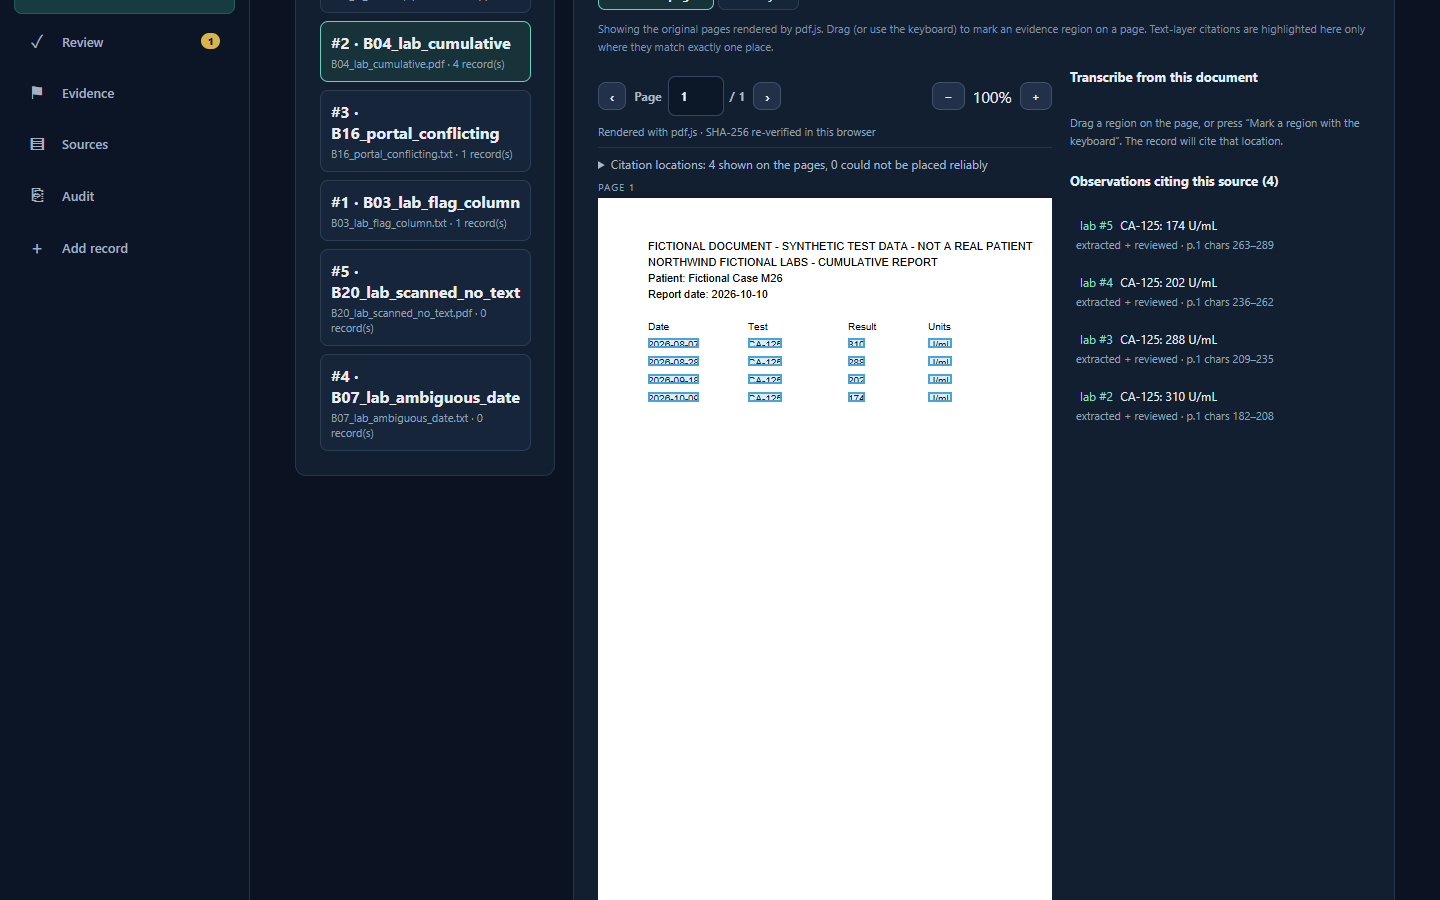
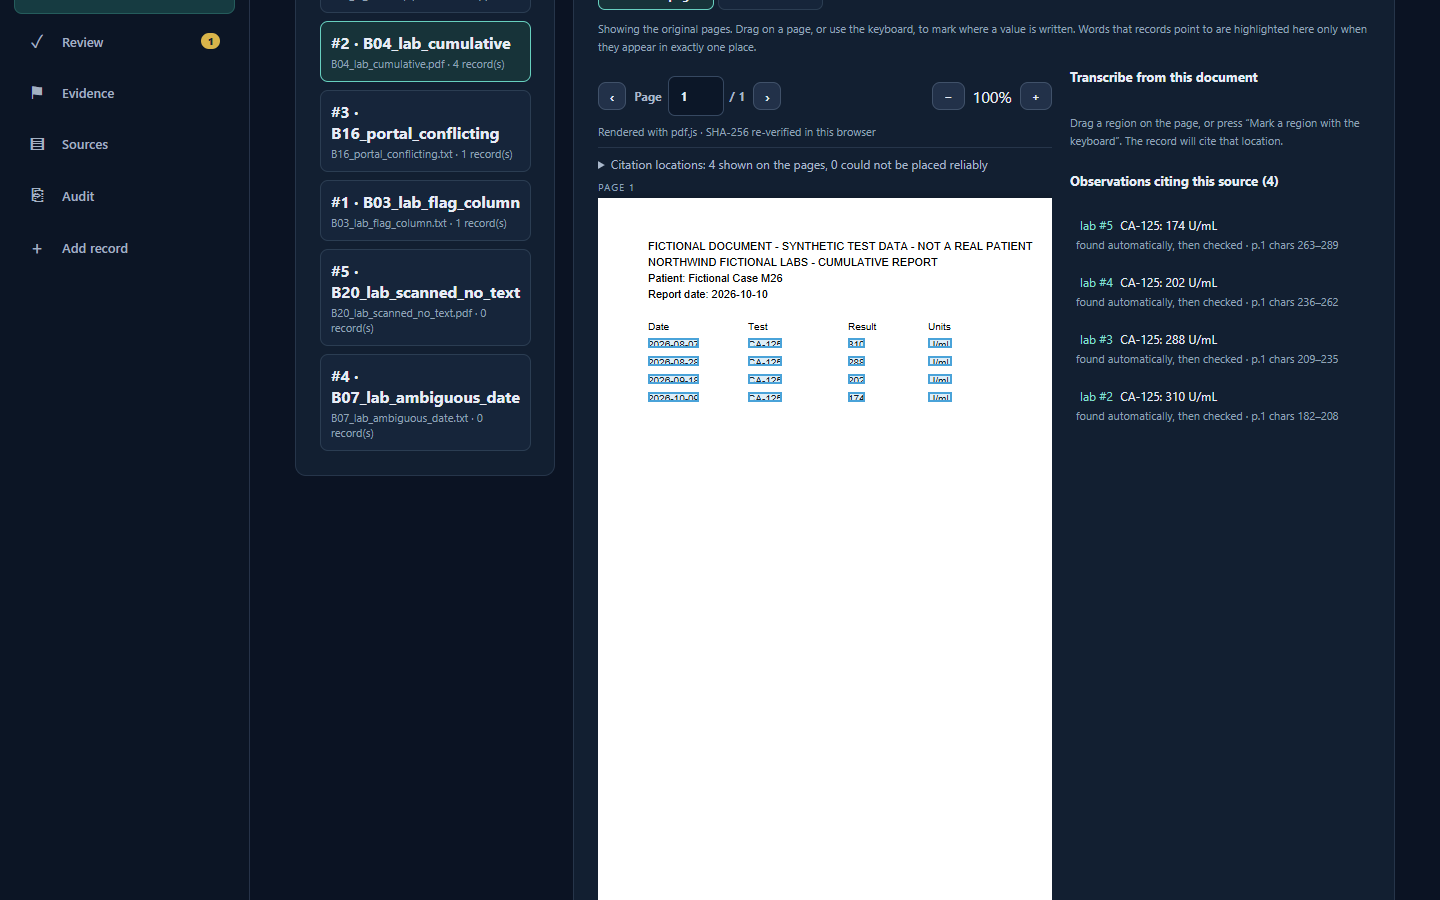
docs: document M3.0 foundations and remove local paths
Update README, architecture, security and roadmap for M3.0 (CI,
inventory, threat model, proposed architecture, regression suite, fixed
defects, M3.1/M3.2 milestones), make the tracked launch configuration
use repository-relative paths instead of a local user directory, and
bump the version to 0.3.0.

diff --git a/OncoScope_MVP/frontend/src/App.tsx b/OncoScope_MVP/frontend/src/App.tsx
@@ -143,7 +143,7 @@ export default function App() {
       <div className="brand"><div className="brand-mark">◎</div><div><strong>ONCOSCOPE</strong><span>LOCAL RESEARCH WORKSPACE</span></div></div>
       <p className="nav-label">WORKSPACE</p>
       <nav aria-label="Main navigation">{views.map((v, i) => <button className={`nav-item ${view === v ? 'active' : ''}`} aria-current={view === v ? 'page' : undefined} key={v} onClick={() => { setView(v); setAnchorDraft(null); }}><span className="nav-icon" aria-hidden="true">{icons[i]}</span>{v}{v === 'Review' && pendingReviews > 0 && <span className="nav-count" aria-hidden="true">{pendingReviews}</span>}</button>)}</nav>
-      <div className="sidebar-footer"><span className="local-dot" /> Local-only prototype<p>Phase 1 · M2.6 · v0.2.6<br />No automated interpretation</p></div>
+      <div className="sidebar-footer"><span className="local-dot" /> Local-only prototype<p>Phase 1 · M3.0 · v0.3.0<br />No automated interpretation</p></div>
     </aside>
     <main className="main">
       <header className="topbar"><div><div className="eyebrow">CLINICAL RECORDS / {view.toUpperCase()}</div><h1>{view === 'Overview' ? 'Patient overview' : view === 'History' ? 'Case history' : view}</h1></div>
@@ -213,7 +213,7 @@ export default function App() {
                 {(['sources', 'events', 'labs', 'treatments', 'studies', 'measurements', 'audit_log'] as const).map(e => <a key={e} className="export-link" href={`${exportBase}/export/${e}.csv`}>{e}.csv</a>)}</div>
               <details className="new-case"><summary>Create another fictional case</summary><CreateCase onCreated={id => { setPatientId(id); reload(); }} /></details></section></>}
         </>}
-        <footer className="footer">OncoScope 0.2.6 · Local-first prototype · Not for clinical decisions · Verify every observation against original documentation</footer>
+        <footer className="footer">OncoScope 0.3.0 · Local-first prototype · Not for clinical decisions · Verify every observation against original documentation</footer>
       </div>
     </main>
   </div>;

diff --git a/OncoScope_MVP/backend/app/main.py b/OncoScope_MVP/backend/app/main.py
@@ -32,7 +32,7 @@ async def lifespan(_app: FastAPI):
 
 
 app = FastAPI(
-    title="OncoScope local API", version="0.2.5", lifespan=lifespan,
+    title="OncoScope local API", version="0.3.0", lifespan=lifespan,
     description="Local-only prototype. Organizes sources; does not diagnose, stage, or assess clinical response.",
 )
 # Rejects requests whose Host header is not loopback (DNS-rebinding protection for a local service).

diff --git a/OncoScope_MVP/README.md b/OncoScope_MVP/README.md
@@ -1,4 +1,4 @@
-# OncoScope — Phase 1 local prototype (M2.6: document fidelity, extraction reliability, usability)
+# OncoScope — Phase 1 local prototype (M3.0: secure foundations; synthetic data only)
 
 **Status:** Source-linked medical-record organizer built with synthetic data only. Not a medical device or an oncology decision-support tool.
 
@@ -7,6 +7,20 @@
 This repository is intentionally narrow in scope: a **FastAPI + SQLite API and a React + TypeScript dashboard**. It does not contain medical scans, a real patient's information, machine learning, RECIST response logic, or molecular simulation.
 
 ## What's implemented
+
+**M3.0 — secure foundations and release reliability.** This does **not** make OncoScope safe for real patient records.
+- GitHub Actions CI (`.github/workflows/ci.yml`): repository hygiene (no databases, document stores, backups, documents
+  outside fictional fixtures, unlabelled fixtures or secrets), backend tests, main and held-out benchmark gates,
+  TypeScript build and unit tests, and the three Playwright demonstrations on Chromium. No artifacts are uploaded.
+- Sensitive-data inventory (`docs/M3_DATA_INVENTORY.md`), threat model (`docs/M3_THREAT_MODEL.md`), proposed security
+  architecture (`docs/M3_SECURITY_ARCHITECTURE.md`) and the M3.1 plan (`docs/M3_1_IMPLEMENTATION_PLAN.md`); integration
+  order for the open PRs (`docs/M3_INTEGRATION_PLAN.md`).
+- Security regression suite (`backend/tests/test_security.py`) and fixes for five confirmed defects: document filenames in
+  access logs, cacheable API responses, a 500 on tampered document references, restores copying arbitrary files into the
+  document store, and a leftover benchmark database. Known gaps (no authentication, plaintext at rest, audit tail
+  truncation without an external head) are strict expected failures.
+- Encryption proof of concept on fictional data (`poc/`, not used by the app).
+- Plain-language labels, a glossary, and WCAG AA text contrast enforced by a test.
 
 **M2.6 — document fidelity and reliability** (plan: `docs/M2_6_PLAN.md`, benchmark: `docs/benchmark/README.md`)
 
@@ -119,12 +133,12 @@ npm install && npm run dev
 
 ```powershell
 cd OncoScope_MVP\backend
-python -m pytest -q                 # 80 tests: API, migrations, audit, units, evidence, extraction, findings, restore, benchmark
+python -m pytest -q                 # 107 passed + 3 expected failures (documented security gaps)
 python -m app.benchmark             # extraction benchmark against the fictional ground truth (add --holdout for the held-out set)
 
 cd ..\frontend
 npm run build                       # strict TypeScript + production build
-npm test                            # Vitest component/unit tests (27)
+npm test                            # Vitest component/unit tests (29, incl. WCAG contrast)
 npm run test:e2e                    # Playwright: M2, M2.5 and M2.6 demonstrations in a real browser
 ```
 
@@ -150,7 +164,7 @@ For the document-centred M2.5 workflow follow `docs/WALKTHROUGH_M2_5.md`. The ge
 | GET / POST | `/api/patients` | List / create fictional cases (always synthetic) |
 | GET | `/api/patients/{id}/dashboard` | Patient metadata and counts |
 | GET / POST | `/api/patients/{id}/sources` / `/api/sources` | Register source documents |
-| PUT / GET | `/api/sources/{id}/document` | Attach (once) / open a synthetic source file |
+| PUT / GET | `/api/sources/{id}/document` | Attach (once; filename in the `X-Document-Filename` header, URL-encoded) / open a synthetic source file |
 | GET | `/api/sources/{id}/document/verify` | Re-hash the stored file |
 | GET / POST | `/api/patients/{id}/events` / `/api/events` | Clinical event metadata |
 | GET / POST | `/api/patients/{id}/labs` / `/api/labs` | Laboratory observations |
@@ -221,7 +235,8 @@ OncoScope_MVP/
 
 ## Known limitations — read before real data
 
-**Do not import or transcribe real patient data into this version.** This MVP has no authentication, no application-layer database or document encryption, no automatic encrypted backup, no consent workflow, no verified data ingestion from records, no patient access-control boundary, and no production threat model. SQLite content, attached documents and report text are stored unencrypted unless the operating system's disk encryption covers them. Only run on loopback (`127.0.0.1`); do not deploy or expose it on a network.
+**Do not import or transcribe real patient data into this version.** The repository is public; never commit real data.
+See `docs/M3_THREAT_MODEL.md` for prioritised risks. This MVP has no authentication, no application-layer database or document encryption, no automatic encrypted backup, no consent workflow, no verified data ingestion from records, no patient access-control boundary, and no production threat model. SQLite content, attached documents and report text are stored unencrypted unless the operating system's disk encryption covers them. Only run on loopback (`127.0.0.1`); do not deploy or expose it on a network.
 
 - Records cannot be deleted (by design for now); a mistaken record can only be corrected or rejected before acceptance.
 - Restore is a CLI, restores the whole database (all cases), and expects the API to be stopped (not enforced).

diff --git a/OncoScope_MVP/docs/SECURITY.md b/OncoScope_MVP/docs/SECURITY.md
@@ -6,6 +6,11 @@ No real names, dates of birth, patient IDs, pathology records, medical images, s
 
 The app does **not** provide user login, per-user authorization, encryption-at-rest, encrypted backup, cloud synchronization, file ingestion safety checks, or a patient permission workflow. It should not be deployed to Vercel, hosted on a home LAN, or shared publicly. Even on localhost, other software running under the same operating-system account might access its local database.
 
+## M3.0 documents
+`M3_DATA_INVENTORY.md` (where data lives), `M3_THREAT_MODEL.md` (prioritised risks, confirmed defects, limitations),
+`M3_SECURITY_ARCHITECTURE.md` (proposed controls), `M3_1_IMPLEMENTATION_PLAN.md` (first increment), and the regression
+suite `backend/tests/test_security.py`. The repository is **public**: fixtures, screenshots and CI logs must stay fictional.
+
 ## Existing controls
 
 - FastAPI and Vite examples bind to `127.0.0.1`, not `0.0.0.0`.
@@ -20,6 +25,9 @@ The app does **not** provide user login, per-user authorization, encryption-at-r
 - The browser renders PDFs with pdf.js after re-checking the file's SHA-256; XFA is disabled and annotations/scripts are
   not rendered. pdf.js parsing untrusted PDFs in the browser is additional attack surface to review before real documents.
   The legacy build is used for compatibility (polyfills), and should be kept updated.
+- No caching: every `/api` response is `no-store`; no record content in URLs or access logs (regression test runs the real
+  server and searches its log for sentinel values).
+- CI hygiene job blocks committed databases, document stores, backups, documents outside fictional fixtures and secrets.
 - Backups include a verification manifest; restores verify before and after and never overwrite an existing database or
   differing document bytes without keeping them. Backups and the derived `document_text` cache are **unencrypted**.
 - Input constraints and patient/source ownership checks.

diff --git a/OncoScope_MVP/docs/ROADMAP.md b/OncoScope_MVP/docs/ROADMAP.md
@@ -58,6 +58,25 @@ pre-restore backups, JSON/CSV/Markdown exports, browser memory and downloads, se
 the local machine, and which M3 control (encryption, identity, deletion, sandboxed parsing) addresses it. Every other M3
 item depends on that inventory, and it can be reviewed independently before any security code is written.
 
+## M3.0 — Secure foundations and release reliability
+
+**Status: delivered (documentation, tests and small fixes; no encryption or authentication yet).** CI for all suites,
+data inventory, threat model, proposed security architecture, encryption proof of concept, security regression suite,
+five confirmed defects fixed, plain-language and contrast fixes, PR integration plan. Still open: human usability
+walkthrough, screen-reader review, all controls listed for M3.1/M3.2.
+
+## M3.1 — First security controls (next; synthetic data only)
+
+Protected mode with local identity and per-launch session tokens; key vault (Argon2id, random data key, recovery key);
+SQLCipher-encrypted database with a verified migration; AES-GCM document store and encrypted backups with an independent
+restore test; HMAC audit chain with head receipts; owner-only data directory and loopback-only start-up. Plan and
+acceptance criteria: `M3_1_IMPLEMENTATION_PLAN.md`. Done when the three strict-xfail gap tests pass by design.
+
+## M3.2 — Deletion, isolation and boundaries (planned)
+
+Per-case keys and case deletion by crypto-shredding, sandboxed document parsing, consent records, encrypted exports, DEK
+rotation, Python dependency lock with hashes.
+
 ## M3 — Real-data readiness review (not yet approved)
 
 Work required before the M3 privacy and security review can even start (none of this exists today):

diff --git a/OncoScope_MVP/docs/ARCHITECTURE.md b/OncoScope_MVP/docs/ARCHITECTURE.md
@@ -81,6 +81,16 @@ Every observation (`events`, `labs`, `treatments`, `studies`, `measurements`) ha
 - **Benchmark:** `fixtures/benchmark/make_benchmark.py` and `make_holdout.py` generate fictional documents and manifests;
   `app.benchmark` scores the real pipeline plus an API round trip and lists every non-ideal outcome.
 
+## Security foundations (M3.0)
+
+- All `/api` responses carry `Cache-Control: no-store`, `Pragma: no-cache`, `X-Content-Type-Options: nosniff` and
+  `Referrer-Policy: no-referrer`. Mutations accept JSON only; uploads require `application/octet-stream` and send the
+  filename in `X-Document-Filename`, so no record content travels in URLs (and therefore access logs).
+- `/api/audit/verify` also returns the chain head (entries, last id, last hash); backup manifests record it and restore
+  compares it. Backups and restores refuse document-store entries that are not hash-named files matching their bytes.
+- The proposed M3 architecture (authentication, SQLCipher, AES-GCM documents, key vault, HMAC audit chain, deletion by
+  crypto-shredding, parser sandbox) is in `M3_SECURITY_ARCHITECTURE.md`; it is not implemented yet.
+
 ## Backup and restore
 
 `app.backup` snapshots SQLite through the backup API, copies the document store and writes `manifest.json`
